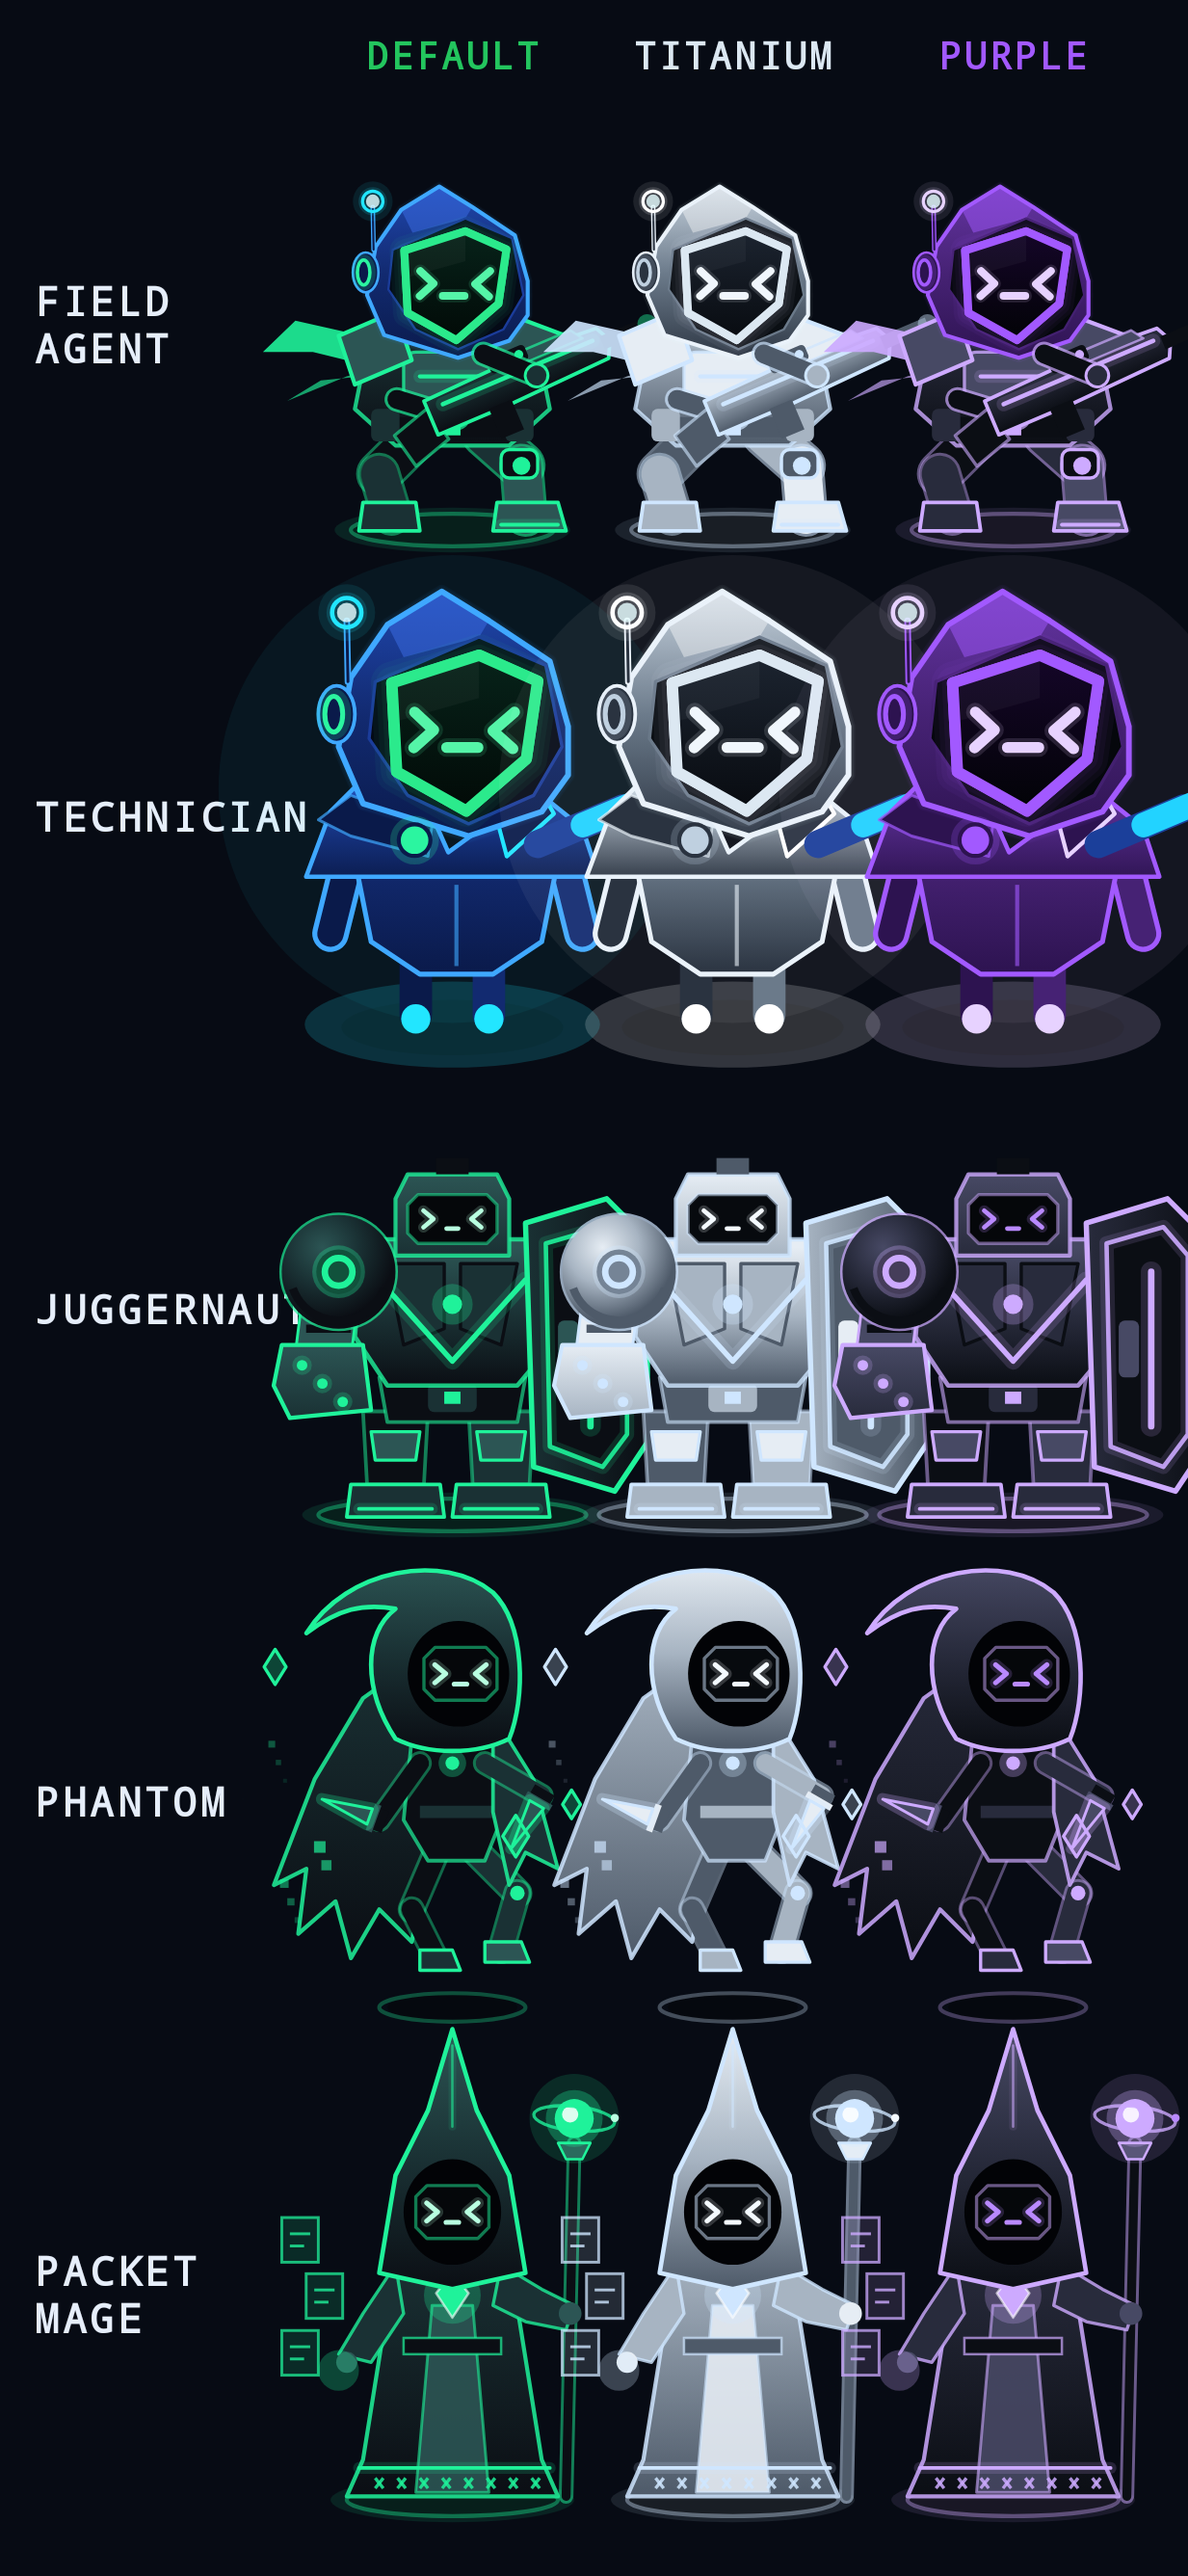
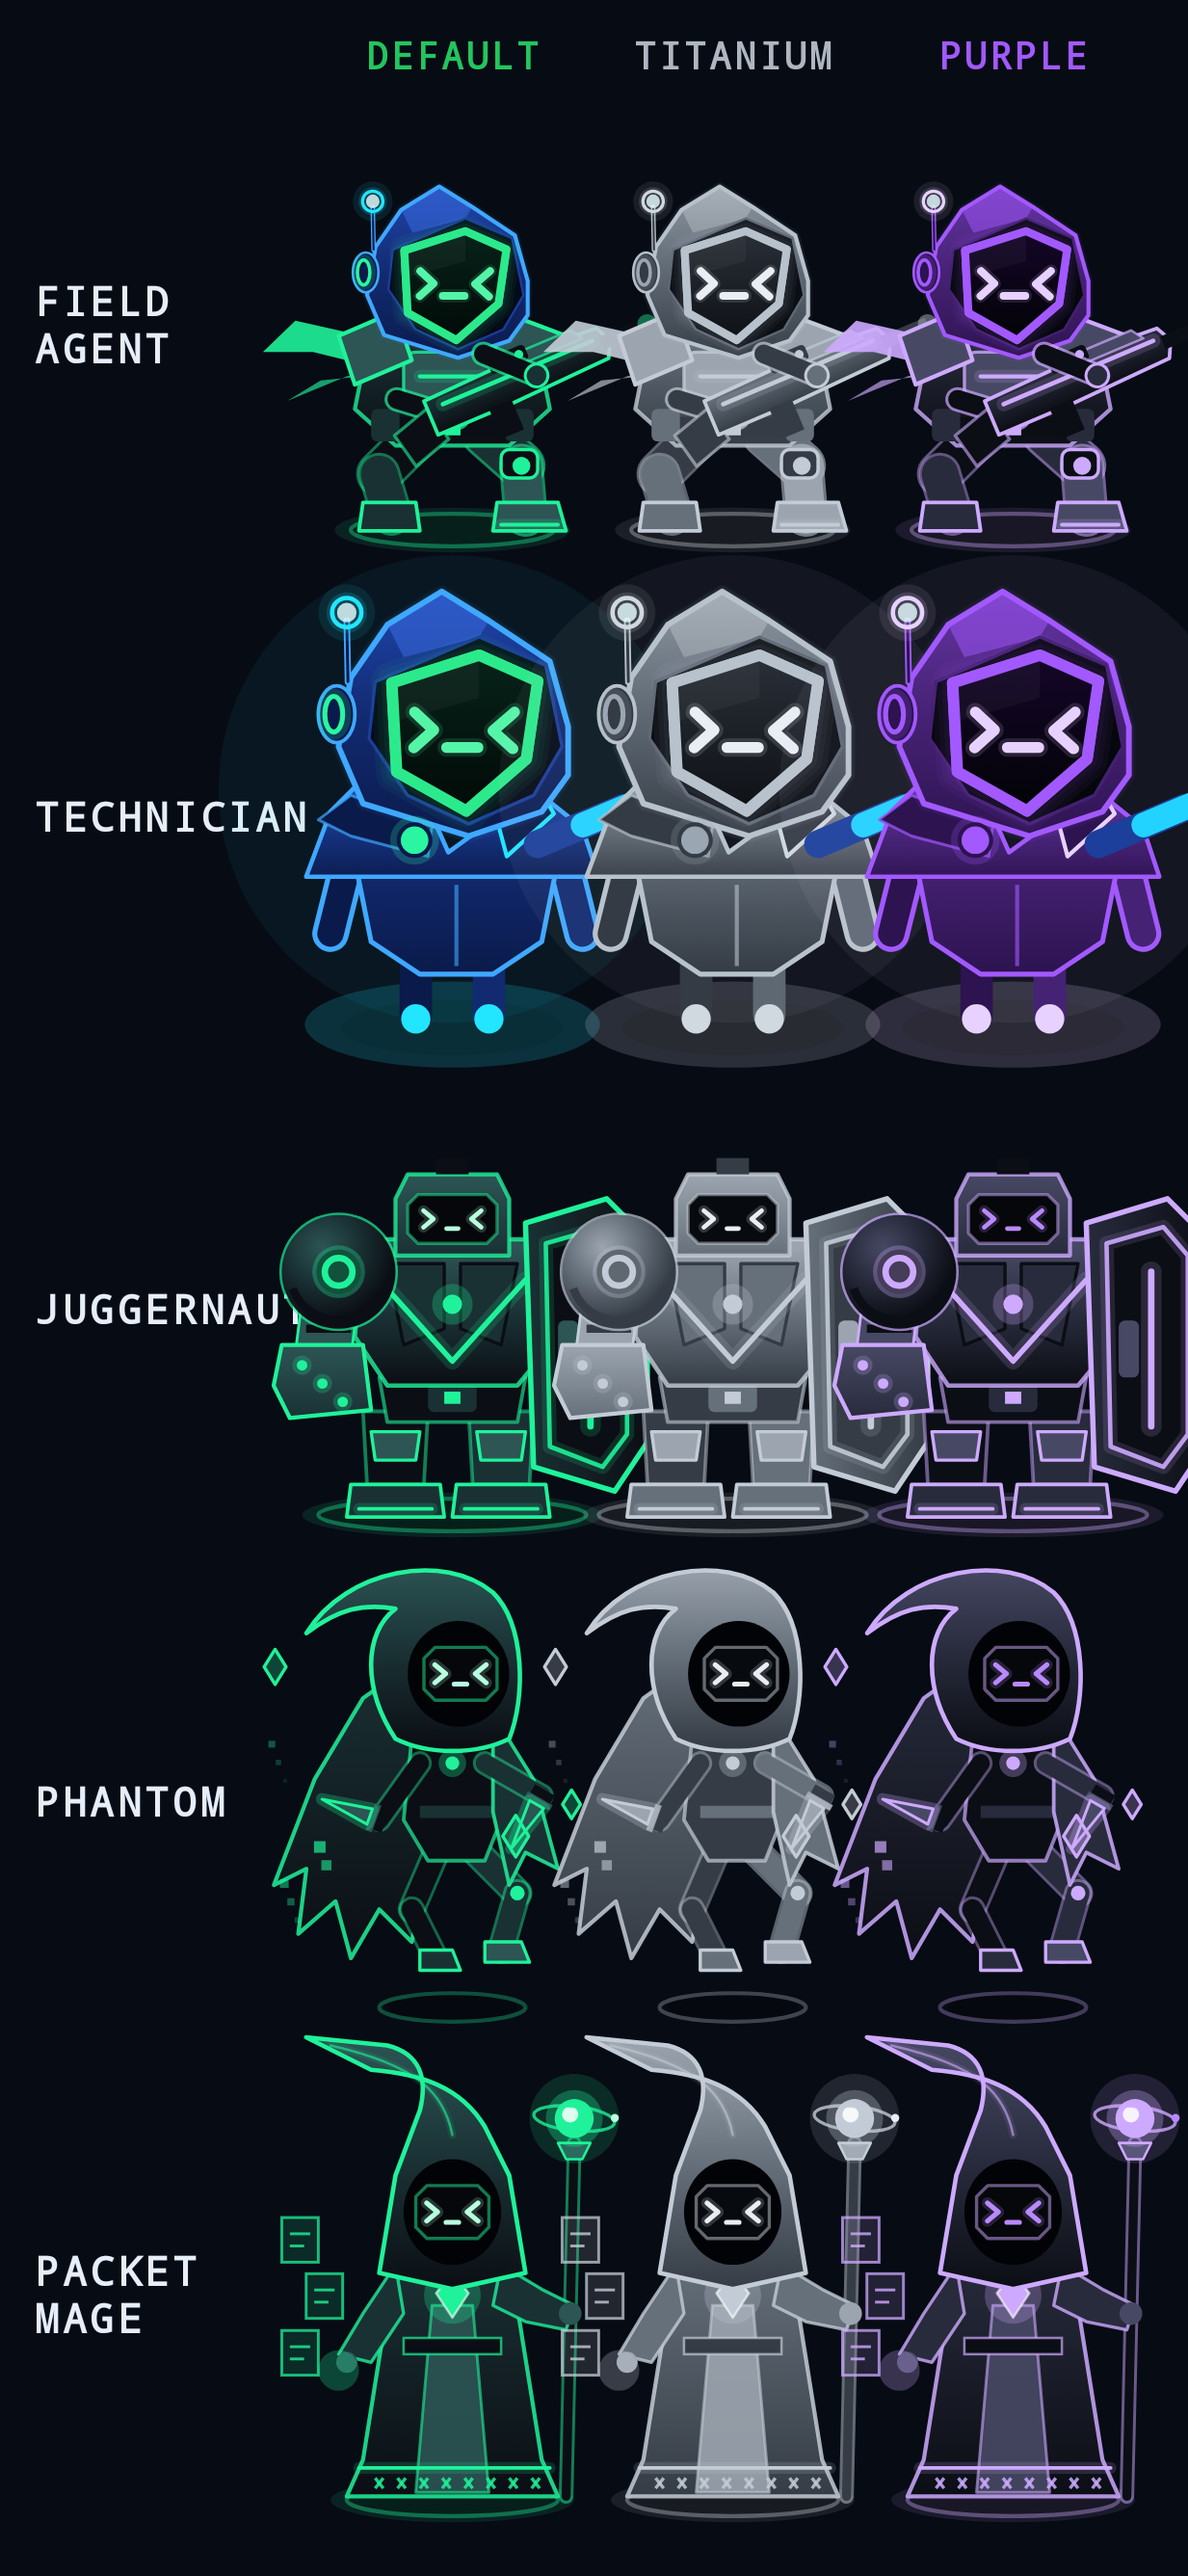
0.17.2: gray-metal Titanium skins, Packet Mage hood bent sharply back
Claude-Session: https://claude.ai/code/session_01J4fYSi9rfQR62SLnfyrDCN

diff --git a/app/src/main/java/com/cyberoperative/game/ui/game/ClassFigures.kt b/app/src/main/java/com/cyberoperative/game/ui/game/ClassFigures.kt
@@ -31,7 +31,7 @@ import kotlin.math.sin
  * x = 52, facing right) and placed/mirrored into the world like the TECHNICIAN's icon hero.
  *
  * Colours come from the skin: dark plates with neon trim (DEFAULT green, PURPLE violet), or
- * light titanium plates with cool white trim (TITANIUM).
+ * gunmetal-grey plates with steel trim (TITANIUM).
  */
 internal object ClassFigures {
 
@@ -51,9 +51,10 @@ internal object ClassFigures {
     fun look(skin: OperativeSkin, time: Float): Look {
         val c = OperativeMark.colors(skin, time)
         if (skin.id == OperativeSkins.TITANIUM.id) {
+            // Owner, 2026-10-11: gray metal (gunmetal plates, steel edges), not white.
             return Look(
-                Color(0xFFE6EDF4), Color(0xFFA7B4C2), Color(0xFF4E5A69),
-                Color(0xFFCFE6FF), Color(0xFFF4FAFF), Color(0xFF070A0E), HeroPalette.forSkin(skin)
+                Color(0xFF9CA5AF), Color(0xFF66707B), Color(0xFF353C45),
+                Color(0xFFC3CCD6), Color(0xFFE8EEF4), Color(0xFF070A0E), HeroPalette.forSkin(skin)
             )
         }
         // Default skin: the concept's bright neon green trim on near-black plates.
@@ -428,9 +429,22 @@ internal object ClassFigures {
                 fillStroke(poly(64f, 60f, 74f, 66f, 82f, 70f, 80f, 76f, 70f, 74f, 62f, 70f), l.plateMid, l.trim.copy(alpha = 0.8f), 0.8f)
                 drawCircle(l.plateLight, 2.8f, Offset(81f, 72f))
                 // The tall peaked hood with the visor.
-                val hood = poly(34f, 62f, 38f, 38f, 46f, 22f, 52f, 2f, 58f, 22f, 66f, 38f, 70f, 62f, 52f, 66f)
-                fillStroke(hood, Brush.verticalGradient(listOf(l.plateLight, l.plateMid, l.plateDark), startY = 2f, endY = 66f), l.trim, 1.1f)
-                neon(Offset(52f, 6f), Offset(52f, 26f), l.trim.copy(alpha = 0.6f), 0.6f, pulse)
+                // Peaked hood whose tip bends sharply back (owner, 2026-10-11).
+                path.reset()
+                path.moveTo(34f, 62f)
+                path.lineTo(38f, 38f)
+                path.lineTo(44f, 22f)
+                path.cubicTo(46f, 14f, 44f, 8f, 36f, 6f)
+                path.lineTo(16f, 4f)
+                path.lineTo(32f, 12f)
+                path.cubicTo(44f, 13f, 54f, 16f, 60f, 26f)
+                path.lineTo(66f, 38f)
+                path.lineTo(70f, 62f)
+                path.lineTo(52f, 66f)
+                path.close()
+                fillStroke(path, Brush.verticalGradient(listOf(l.plateLight, l.plateMid, l.plateDark), startY = 4f, endY = 66f), l.trim, 1.1f)
+                path.reset(); path.moveTo(52f, 28f); path.cubicTo(50f, 18f, 44f, 11f, 22f, 6f)
+                neonPath(path, l.trim.copy(alpha = 0.6f), 0.6f, pulse)
                 drawOval(Color(0xFF020306), Offset(40f, 34f), Size(24f, 26f))
                 visorFace(52f, 47f, 18f, 13f, l, pulse)
             }

diff --git a/app/src/main/java/com/cyberoperative/game/ui/common/OperativeEmblem.kt b/app/src/main/java/com/cyberoperative/game/ui/common/OperativeEmblem.kt
@@ -140,7 +140,7 @@ data class HeroPalette(
          */
         fun forSkin(skin: com.cyberoperative.game.data.OperativeSkin): HeroPalette {
             if (skin.id == com.cyberoperative.game.data.OperativeSkins.DEFAULT.id) return ICON
-            if (skin.id == com.cyberoperative.game.data.OperativeSkins.TITANIUM.id) return KEEPER_TITANIUM
+            if (skin.id == com.cyberoperative.game.data.OperativeSkins.TITANIUM.id) return TITANIUM_METAL
             val edge = Color(skin.edge)
             val face = Color(skin.face)
             val body = Color(skin.body)
@@ -163,6 +163,12 @@ data class HeroPalette(
             Color(0xFFB8860B), Color(0xFF6B4A08), Color(0xFF2E1F04), Color(0xFFFFD86A).copy(alpha = 0.45f),
             Color(0xFFFFD426), Color(0xFF0E0A02), Color(0xFF6B4A08), Color(0xFFFFE680), Color(0xFFFFC94D),
             Color(0xFFFFD426), Color(0xFF2A2006), Color(0xFF0E0A02), Color(0xFFFFE680)
+        )
+        /** TITANIUM class skin: gray gunmetal hood with steel edges (owner, 2026-10-11). */
+        val TITANIUM_METAL = HeroPalette(
+            Color(0xFF8E98A3), Color(0xFF5E6873), Color(0xFF343B44), Color(0xFFFFFFFF).copy(alpha = 0.22f),
+            Color(0xFFB8C2CC), Color(0xFF0B0F14), Color(0xFF5E6873), Color(0xFFD0D8E0), Color(0xFF9AA6B2),
+            Color(0xFFB8C2CC), Color(0xFF2A3038), Color(0xFF0E1116), Color(0xFFE8EEF4)
         )
         val KEEPER_TITANIUM = HeroPalette(
             Color(0xFFC8D4E0), Color(0xFF6B7A8A), Color(0xFF2A3340), Color(0xFFFFFFFF).copy(alpha = 0.4f),

diff --git a/app/src/main/java/com/cyberoperative/game/data/Store.kt b/app/src/main/java/com/cyberoperative/game/data/Store.kt
@@ -78,7 +78,7 @@ object OperativeSkins {
     val DEFAULT = OperativeSkin("default", "CYBER OPERATIVE", "The logo", 0xFF23C55E, 0xFF6EF7A5, 0xFF07301E, free = true)
 
     /** Class skins (owner, 2026-10-11): every class earns these on its own. */
-    val TITANIUM = OperativeSkin("titanium", "TITANIUM", "Class skin: level 100 on Normal", 0xFFDCE8F2, 0xFFFFFFFF, 0xFF1C2430,
+    val TITANIUM = OperativeSkin("titanium", "TITANIUM", "Class skin: level 100 on Normal", 0xFFAEB7C1, 0xFFE6ECF2, 0xFF2B3138,
         SkinEffect.PULSE, unlock = SkinUnlock("MEDIUM", 100))
     val PURPLE = OperativeSkin("purple", "PURPLE", "Class skin: level 100 on Hard", 0xFFA259FF, 0xFFE7D2FF, 0xFF1A0833,
         SkinEffect.HOLOGRAM, unlock = SkinUnlock("HARD", 100))

diff --git a/CHANGELOG.md b/CHANGELOG.md
@@ -1,5 +1,15 @@
 # Changelog
 
+## 0.17.2 (versionCode 58) — 2026-10-11 · Gray-metal Titanium, bent Mage hood
+### Changed (owner)
+- **TITANIUM is now gray metal on every class.** It was near-white:
+  - gunmetal plates with steel-grey edges;
+  - a new `HeroPalette.TITANIUM_METAL` for the Technician's hood;
+  - the skin's own colours were retuned to match.
+  - The titanium shopkeeper is unchanged.
+- **Packet Mage:** the tip of the peaked hood now bends sharply back, with a glowing seam along the
+  bend.
+
 ## 0.17.1 (versionCode 57) — 2026-10-11 · Class bodies redrawn from the concept sheet
 ### Changed (owner: "make them look as close to this as possible… Technician looks fine")
 - New vector bodies for four classes (`ui/game/ClassFigures.kt`), traced from the owner's concept sheet:

diff --git a/DEVELOPMENT_STATE.md b/DEVELOPMENT_STATE.md
@@ -6,7 +6,7 @@ _Read this first in every new session, then README, GAME_DESIGN, BACKLOG, CHANGE
 
 | | |
 |---|---|
-| Version | 0.17.1 (versionCode 57) |
+| Version | 0.17.2 (versionCode 58) |
 | Milestone | M1 vertical slice ✅ · M2 first boss & systems ✅ (pending device playtest) |
 | Last completed | 0.9.5 fullscreen HUD redesign (ui/game/GameHud.kt, buff chips in UpgradeBar.kt) |
 | Current task | Waiting on owner: body design (CO-094) and Power-Up Board picks (CO-090) |

diff --git a/README.md b/README.md
@@ -16,7 +16,7 @@ Play **co-op** with a friend (friend codes, invites, live two-player runs; see `
 
 ## Project status
 
-`0.17.1` — Boss Expansion Vol. 1 under way; 0.16.0 balance pass (pooled mastery, bigger Packet Flood) (see `DEVELOPMENT_STATE.md` and `docs/BOSS_EXPANSION_LOG.md`).
+`0.17.2` — Boss Expansion Vol. 1 under way; 0.16.0 balance pass (pooled mastery, bigger Packet Flood) (see `DEVELOPMENT_STATE.md` and `docs/BOSS_EXPANSION_LOG.md`).
 
 | | |
 |---|---|
